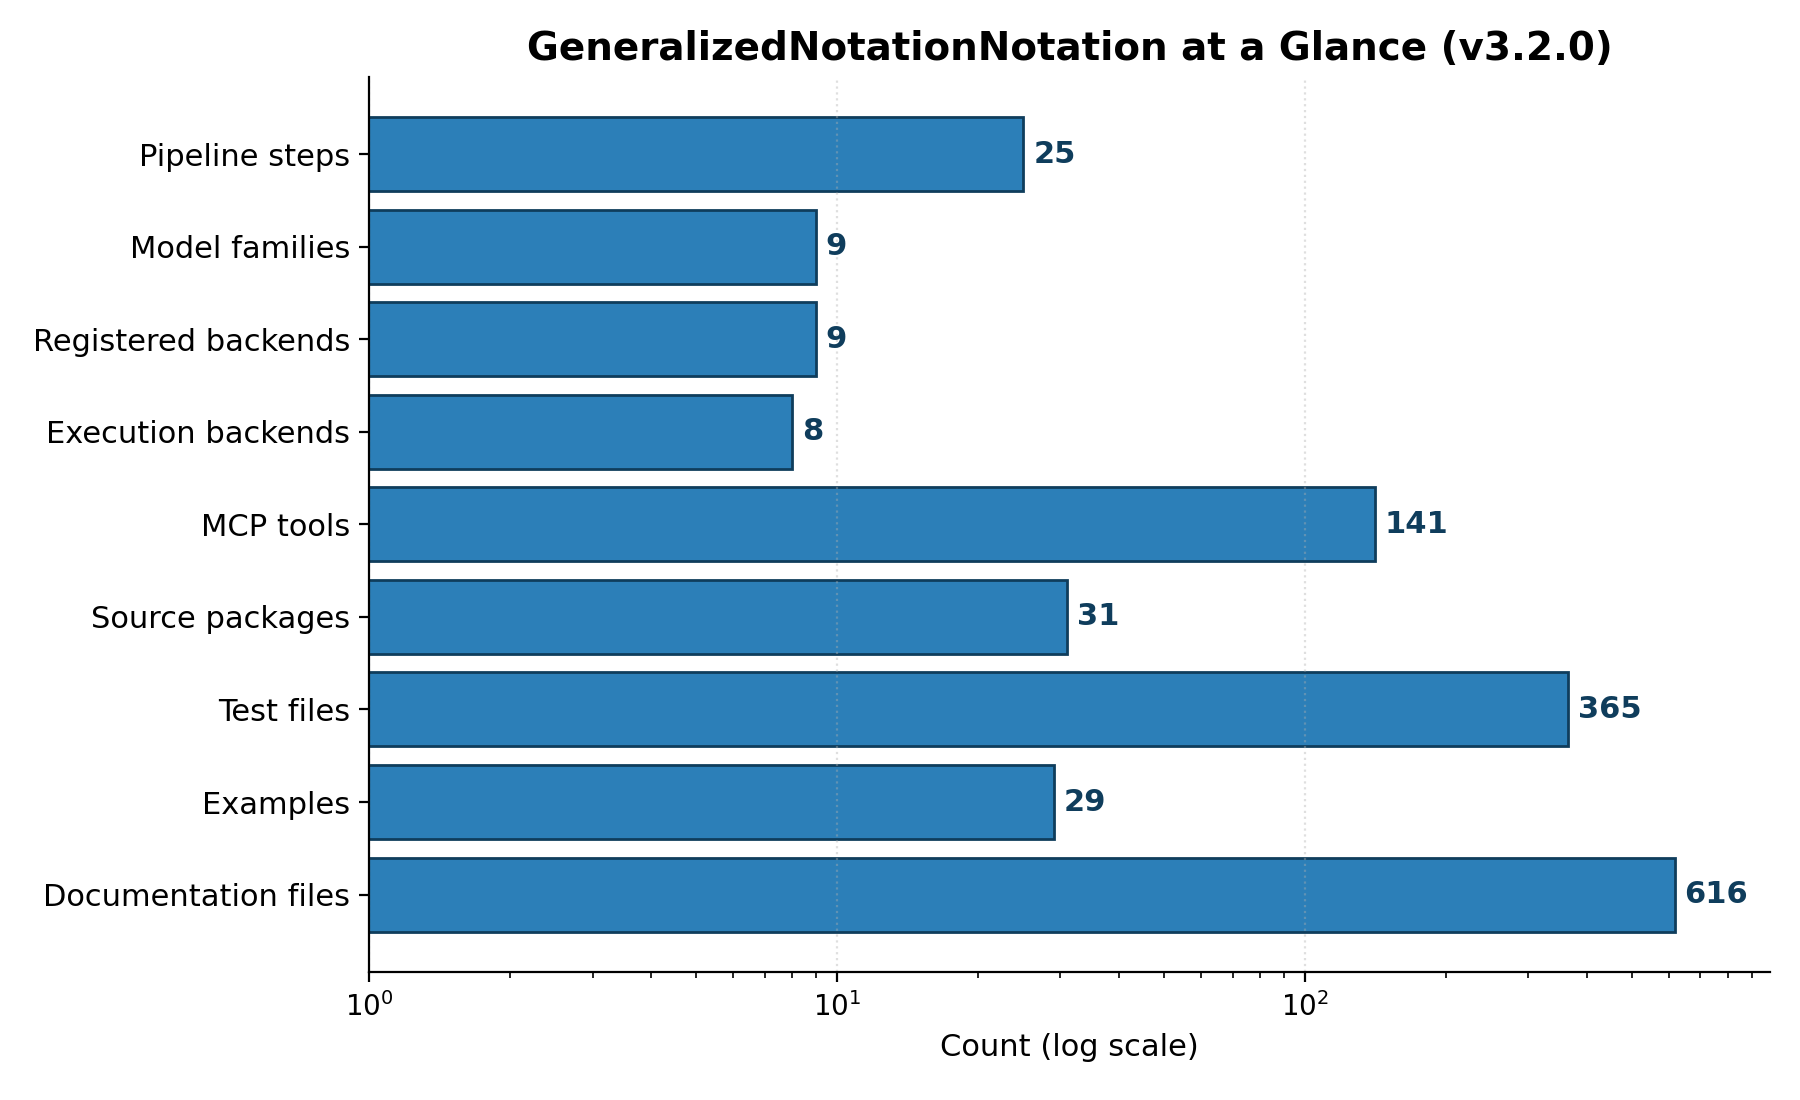
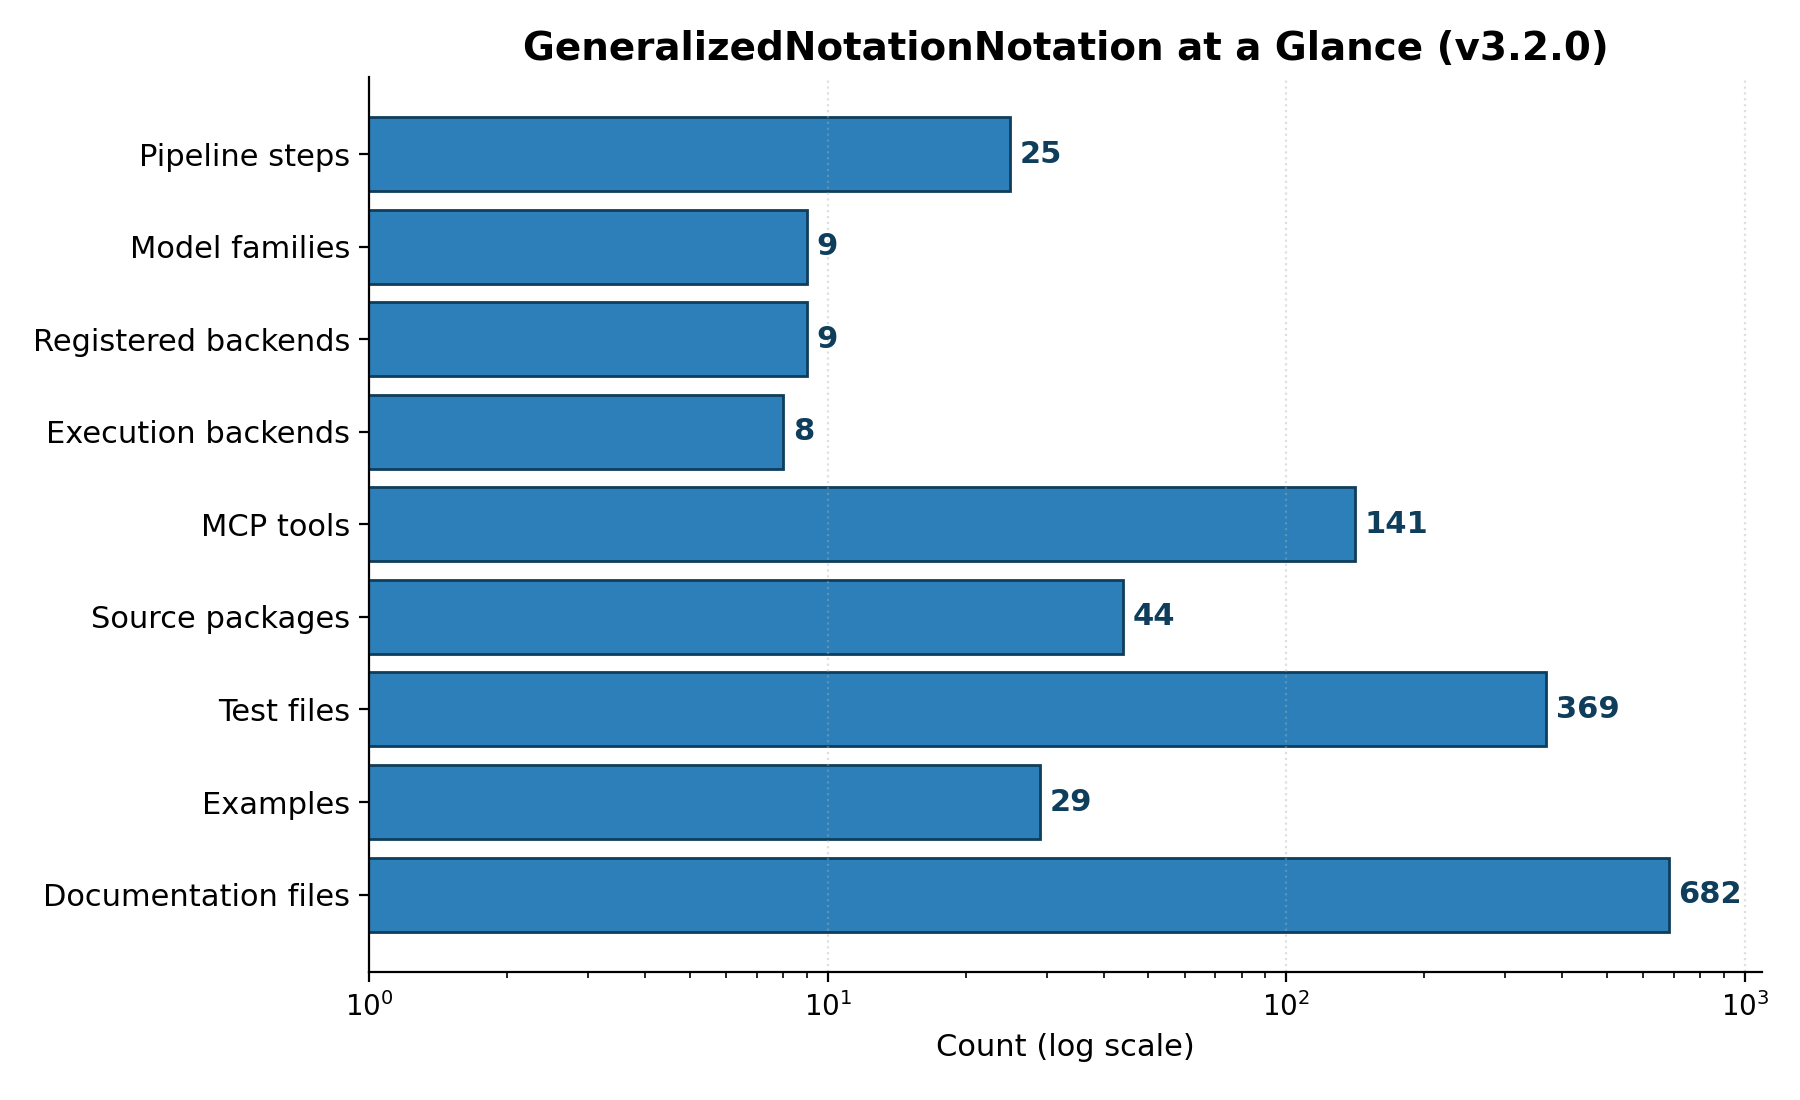
fix: retarget manuscript figure generators to the src/gnn layout
manuscript_fig_{family_framework,backend_matrix,pipeline_dag} resolved
framework_registry.py, cross_framework_reliability.py, and STEP_INDEX.md at
their pre-refactor src/ paths; all rebuilt figures now agree with the
regenerated token map (SRC_PACKAGE_COUNT 39->42, GNN_DOC_FILE_COUNT on docs/)

diff --git a/scripts/manuscript_fig_backend_matrix.py b/scripts/manuscript_fig_backend_matrix.py
@@ -29,14 +29,14 @@ PROJECT_ROOT = Path(__file__).resolve().parents[1]
 if str(PROJECT_ROOT) not in sys.path:
     sys.path.insert(0, str(PROJECT_ROOT))
 SRC = PROJECT_ROOT / "src"
-RENDER_DIR = SRC / "render"
+RENDER_DIR = SRC / "gnn" / "render"
 MANIFEST = PROJECT_ROOT / "input" / "model_family_manifest.json"
 OUT_PNG = PROJECT_ROOT / "output" / "figures" / "gnn_backend_capability_matrix.png"
 
 
 def load_registry() -> dict:
     """Import FRAMEWORK_REGISTRY from the real source module."""
-    sys.path.insert(0, str(SRC))
+    sys.path.insert(0, str(SRC / "gnn"))
     from gnn.render.framework_registry import FRAMEWORK_REGISTRY  # type: ignore
 
     return dict(FRAMEWORK_REGISTRY)
@@ -62,7 +62,7 @@ def cross_framework_backends() -> tuple[str, list[str], list[str]]:
         k.strip() for k in str(family.get("frameworks", "")).split(",") if k.strip()
     ]
 
-    gate = (SRC / "pipeline" / "cross_framework_reliability.py").read_text()
+    gate = (SRC / "gnn" / "pipeline" / "cross_framework_reliability.py").read_text()
     block = re.search(r"MAINTAINED_FRAMEWORKS = \(([^)]*)\)", gate)
     maintained = set(re.findall(r'"([a-z_]+)"', block.group(1))) if block else set()
     if not maintained:

diff --git a/scripts/manuscript_fig_pipeline_dag.py b/scripts/manuscript_fig_pipeline_dag.py
@@ -30,7 +30,7 @@ from matplotlib.axes import Axes  # noqa: E402
 from matplotlib.patches import FancyArrowPatch, FancyBboxPatch  # noqa: E402
 
 REPO_ROOT = Path(__file__).resolve().parents[1]
-STEP_INDEX = REPO_ROOT / "src" / "STEP_INDEX.md"
+STEP_INDEX = REPO_ROOT / "src" / "gnn" / "STEP_INDEX.md"
 OUT_PNG = REPO_ROOT / "output" / "figures" / "gnn_pipeline_dag.png"
 
 # Phase -> color (stable, ordered for the legend).

diff --git a/scripts/manuscript_fig_family_framework.py b/scripts/manuscript_fig_family_framework.py
@@ -24,7 +24,7 @@ import numpy as np  # noqa: E402
 
 REPO_ROOT = Path(__file__).resolve().parents[1]
 MANIFEST_PATH = REPO_ROOT / "input" / "model_family_manifest.json"
-REGISTRY_PATH = REPO_ROOT / "src" / "render" / "framework_registry.py"
+REGISTRY_PATH = REPO_ROOT / "src" / "gnn" / "render" / "framework_registry.py"
 OUTPUT_PATH = REPO_ROOT / "output" / "figures" / "gnn_family_framework_matrix.png"
 
 
